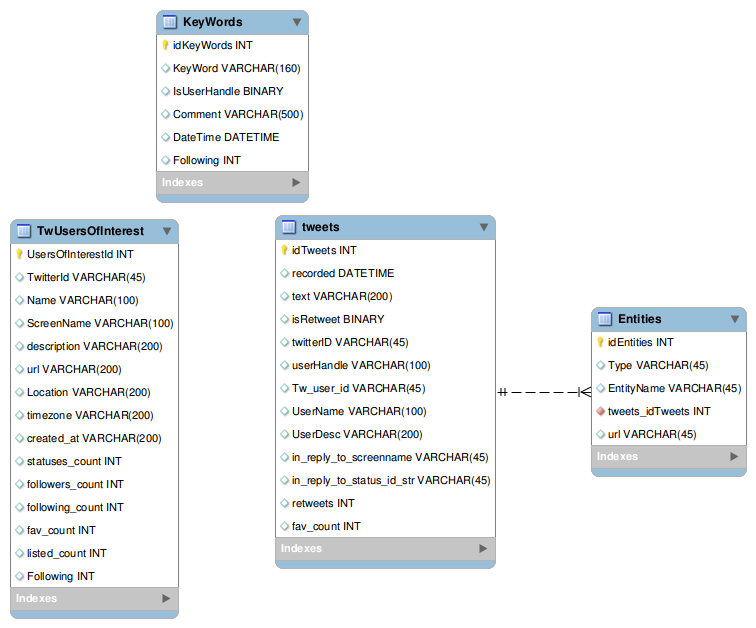
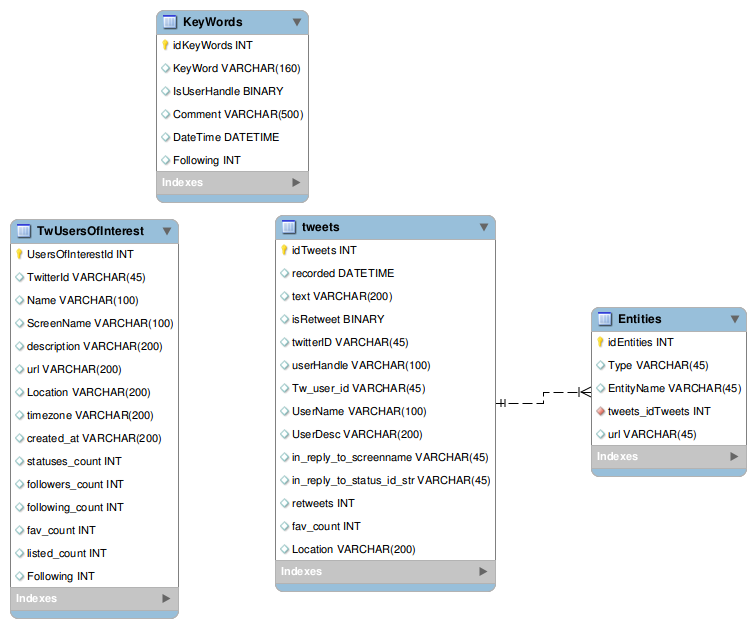
Information from API

Changed region(s): [[0.3651, 0.8471, 0.6693, 0.9682]]

diff --git a/tweet-follower/StreamThread.py b/tweet-follower/StreamThread.py
@@ -23,12 +23,20 @@ class StdOutListener(StreamListener):
         parsed_json = json.loads(data)
         created_at = parsed_json['created_at']
         text = parsed_json['text']
+        twitter_id = parsed_json['id_str']
+        in_reply_to_status_id = parsed_json['in_reply_to_status_id']
+        in_reply_to_user_id = parsed_json['in_reply_to_user_id']
         screen_name = parsed_json['user']['screen_name']
+        Tw_user_id = parsed_json['user']['id_str']
+        Location = parsed_json['user']['Location']
+        UserDesc = parsed_json['user']['description']
         retweet_count = parsed_json['retweet_count']
         favorite_count = parsed_json['favorite_count']
+        is_retweeted = parsed_json['retweeted']
+        lang = parsed_json['lang']
         #cursor = db.cursor()
         print(text)
-        #sql = "INSERT into tweets (date,tweet_text,user,retweetcount,favor_count) values (NOW(),'%s','%s','%s',%d,%d)" % (text,screen_name,int(retweet_count),int(favorite_count))
+        sql = "INSERT into tweets (idTweets,recoreded,text,isRetweet,twitterID,userHandle,Tw_user_id,UserName,UserDesc,in_reply_to_screenname,in_reply_to_status_id,retweets,fav_count,Location) values (NOW(),'%s','%s','%s',%d,%d)" % (text,screen_name,int(retweet_count),int(favorite_count))
         try:
             print("End")
             #cursor.execute(sql)
